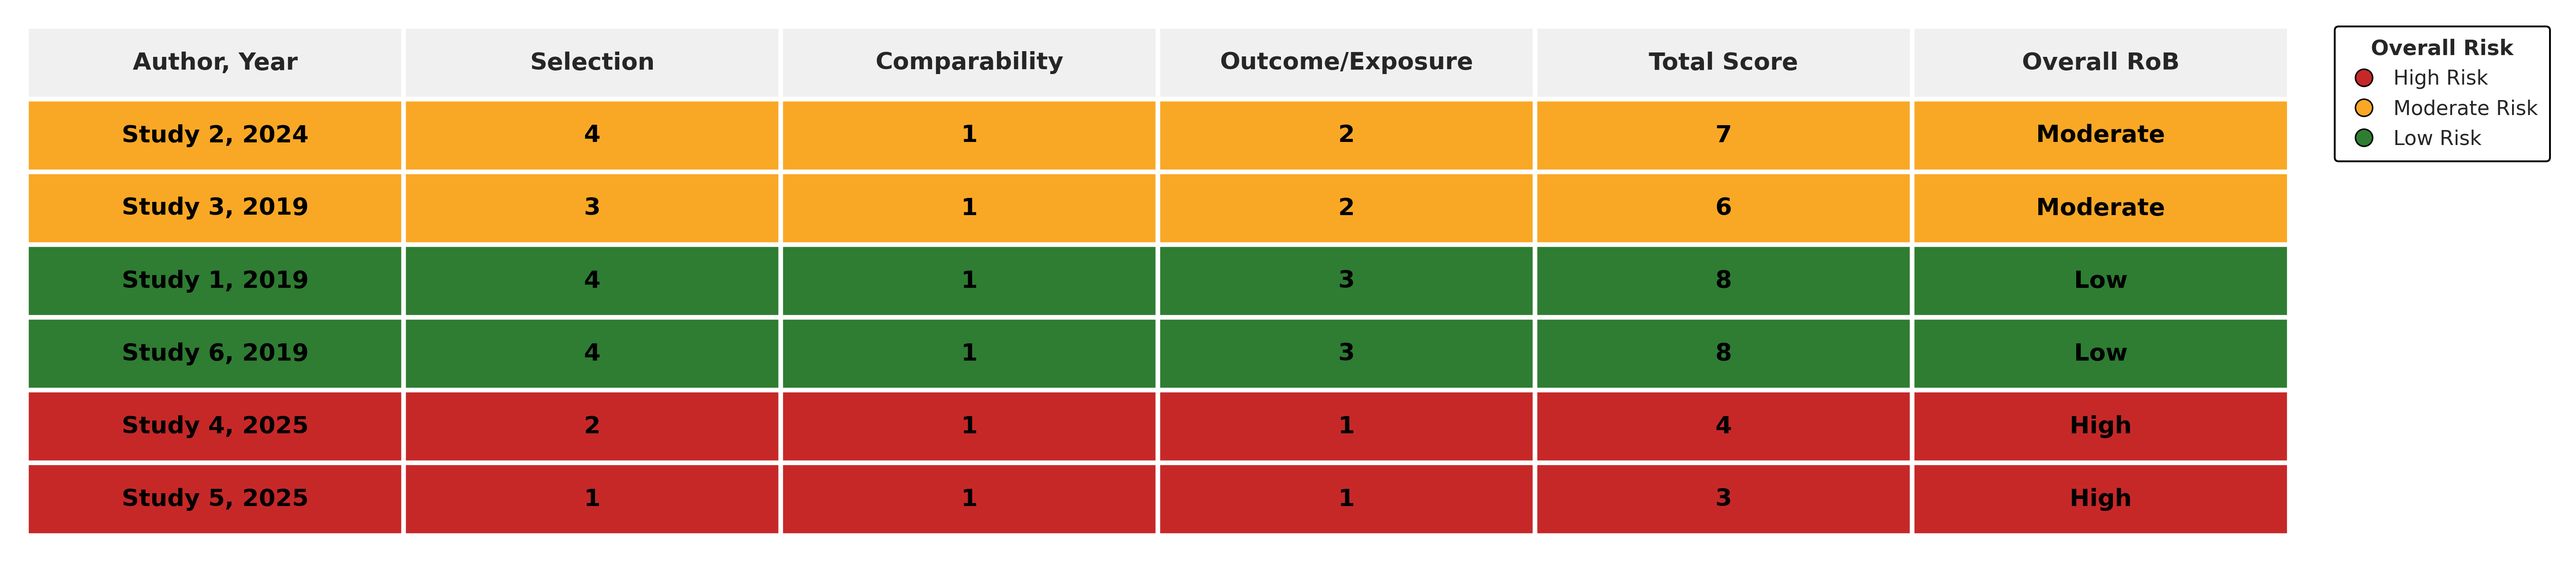
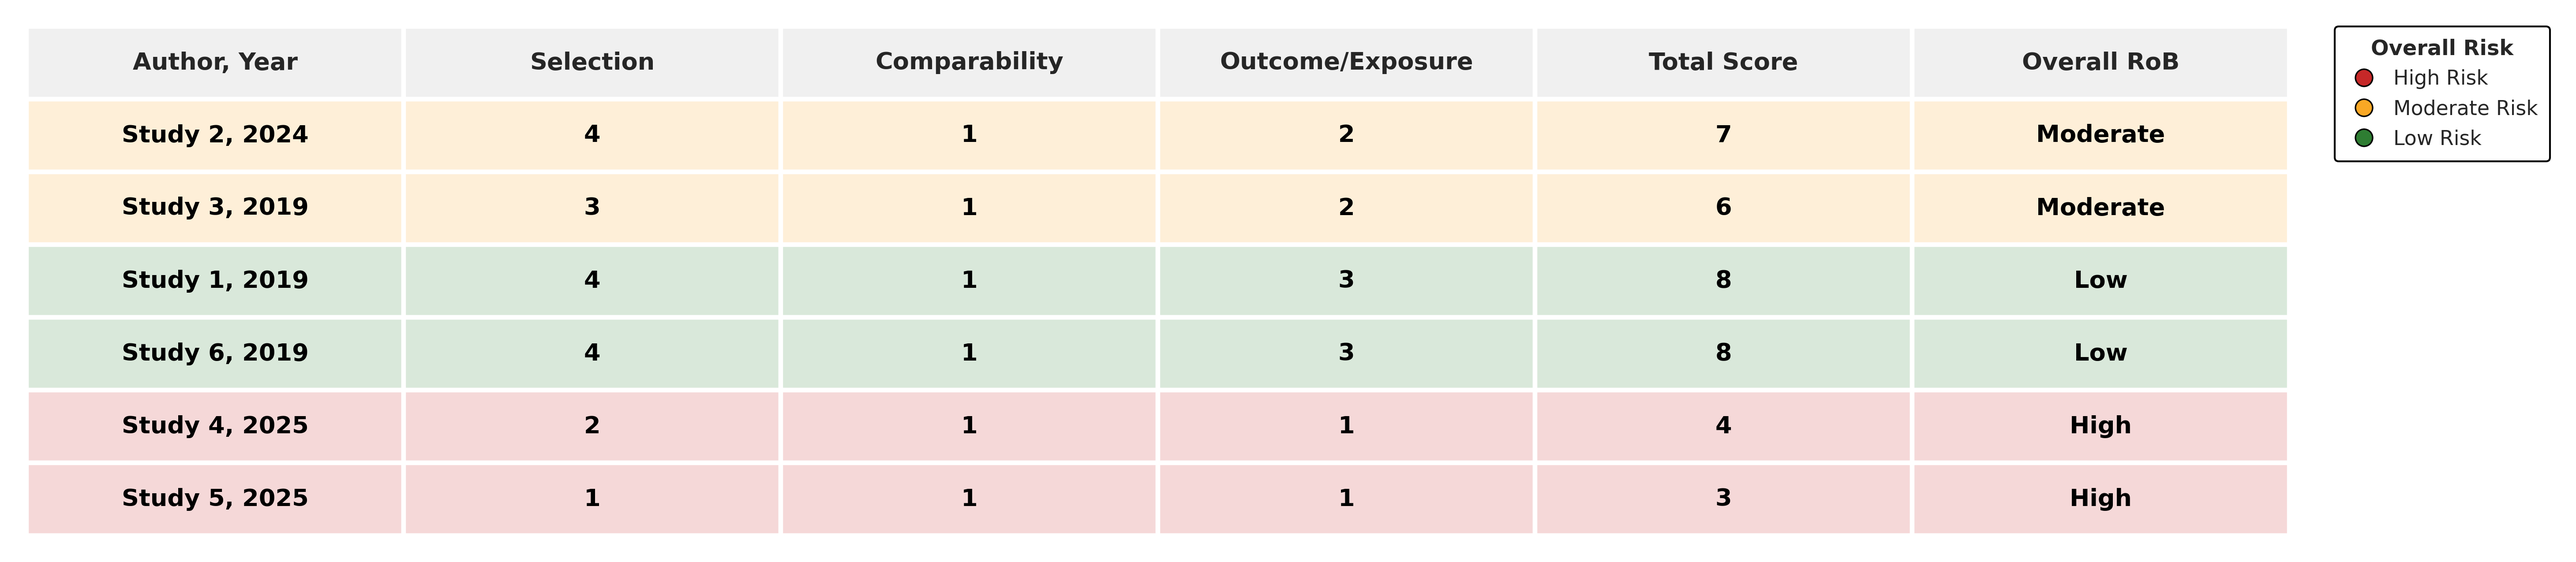
push radar circles left, fix edge markers, lighten score table

diff --git a/nos_tlplot.py b/nos_tlplot.py
@@ -283,7 +283,7 @@ def plot_domain_radar(df: pd.DataFrame, output_file: str, theme: str = "traffic_
     ax.set_xticks(angles[:-1])
     ax.set_xticklabels(["A", "B", "C"], fontsize=15)
     ax.set_title("Domain Scores Radar Chart by Study", size=18, pad=20)
-    ax.set_ylim(0, 1)
+    ax.set_ylim(0, 1.08)
     
     ax.tick_params(axis='y', labelsize=14)
     ax.grid(True, linestyle='-', alpha=0.7, linewidth=1.5)
@@ -292,7 +292,7 @@ def plot_domain_radar(df: pd.DataFrame, output_file: str, theme: str = "traffic_
     fs = compact_legend_fontsize(fig)
     study_legend_elements = [Line2D([0], [0], color=study_colors[i], lw=2.0, label=row['Author, Year'])
                              for i, (_, row) in enumerate(df.iterrows())]
-    leg = add_compact_legend(ax, study_legend_elements, "Study", anchor_x=1.10)
+    leg = add_compact_legend(ax, study_legend_elements, "Study", anchor_x=1.22)
 
     plt.subplots_adjust(bottom=0.22)
 
@@ -375,14 +375,14 @@ def plot_theme_radar(df: pd.DataFrame, output_file: str, theme: str = "traffic_l
     ax.set_xticks(angles[:-1])
     ax.set_xticklabels(["A", "B", "C"], fontsize=15)
     ax.set_title("Theme-based Domain Scores Radar Chart", size=19, pad=20)
-    ax.set_ylim(0, 1)
+    ax.set_ylim(0, 1.08)
     
     ax.tick_params(axis='y', labelsize=14)
     ax.grid(True, linestyle='-', alpha=0.7, linewidth=1.5)
     
     fs = compact_legend_fontsize(fig)
     legend_elements = [Line2D([0], [0], color=colors_map[rob], lw=2.0, label=f"{rob} Risk") for rob in ["Low", "Moderate", "High"]]
-    risk_legend = add_compact_legend(ax, legend_elements, "Overall Risk", anchor_x=1.10)
+    risk_legend = add_compact_legend(ax, legend_elements, "Overall Risk", anchor_x=1.22)
 
     domain_mapping = {"A": "Selection", "B": "Comparability", "C": "Outcome / Exposure"}
 
@@ -584,7 +584,7 @@ def plot_score_table(df: pd.DataFrame, output_file: str, theme: str = "traffic_l
     table = ax.table(
         cellText=table_df.values,
         colLabels=table_df.columns,
-        cellColours=[[tint(fill) for _ in range(len(table_df.columns))] for fill in row_fills],
+        cellColours=[[tint(fill, 0.82) for _ in range(len(table_df.columns))] for fill in row_fills],
         loc='top left',
         bbox=[0, 0, 1, 1],
         cellLoc='center'
